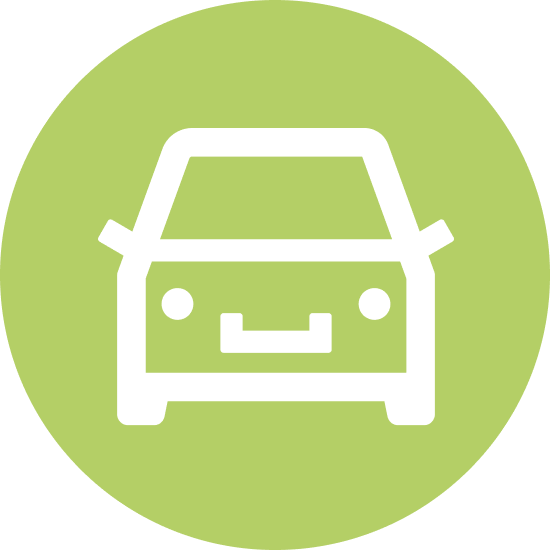
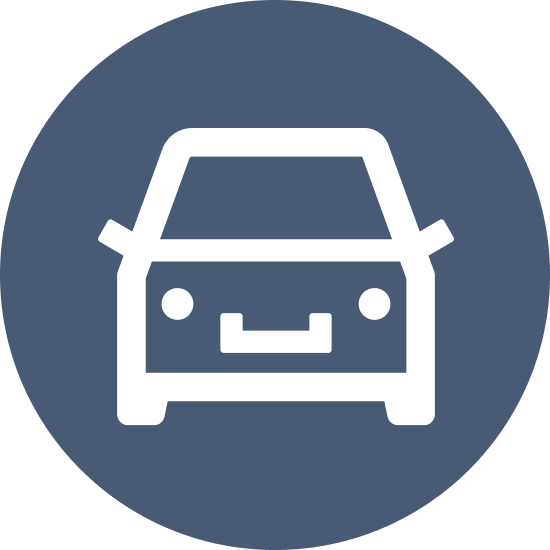
:art: [Style] 파란색으로 변경

diff --git a/FE/main-user/src/components/message/Message.css b/FE/main-user/src/components/message/Message.css
@@ -125,7 +125,7 @@
     margin-left: 0px;
     margin-right: 10px;
     max-height: 40px;
-    background-color: #44803f;
+    background-color: #5285b1;
     color: white;
     font-size: 20px;
     font-weight: bold;
@@ -182,7 +182,7 @@
 }
 
 .message-list::-webkit-scrollbar-thumb {
-    background-color: #54736D;
+    background-color: #3e5c76;
     border-radius: 10px;
 }
 
@@ -248,7 +248,7 @@
 .send-button {
     padding: 10px 15px;
     background: #FFEC5C;
-    color: #54736D;
+    color: #3e5c76;
     border: none;
     border-radius: 4px;
     cursor: none;
@@ -310,7 +310,7 @@
     border-radius: 4px;
     background-color: #FFEC5C;
     box-shadow: 0 1px 4px rgba(0, 0, 0, 0.4);
-    color: #54736D;
+    color: #3e5c76;
     cursor: none;
 }
 
@@ -346,7 +346,7 @@
     border-radius: 4px;
     background-color: #B1B1B1;
     box-shadow: 0 1px 4px rgba(0, 0, 0, 0.4);
-    color: #54736D;
+    color: #3e5c76;
     cursor: none;
 }
 
@@ -362,7 +362,7 @@
     margin-top: 20px;
     border: none;
     border-radius: 4px;
-    background-color: #44803F;
+    background-color: #5285b1;
     box-shadow: 0 1px 4px rgba(0, 0, 0, 0.4);
     color: #FFFFFF;
     cursor: none;
@@ -389,7 +389,7 @@
     font-weight: bold;
     height: 130px;
     color: white;
-    background-color: #4f814b;
+    background-color: #3e5c76;
     border: none;
     border-radius: 10px;
     text-align: center;
@@ -400,7 +400,7 @@
 }
 
 .user-button:hover {
-    background-color: #54736D;
+    background-color: #5285b1;
     transform: scale(1.05);
 }
 

diff --git a/FE/main-user/src/components/calendar/Calendar.css b/FE/main-user/src/components/calendar/Calendar.css
@@ -106,7 +106,7 @@
   
   .calendar-day:hover {
     border-radius: 10px;
-    background-color: rgba(68, 128, 63, 0.562);
+    background-color: rgba(82, 133, 177, 0.562);
   
     transition: all 0.3s ease;
   }
@@ -121,7 +121,7 @@
   
   .calendar-day.selected-date {
     color: white;
-    background-color: #44803F;
+    background-color: #3e5c76;
     border-radius: 12px;
   
     font-weight: bold;
@@ -130,7 +130,7 @@
   }
 
   .calendar-day.today {
-    background-color: #A0D468;
+    background-color: #5285b1;
     color: white;
     border-radius: 12px;
     font-weight: bold;
@@ -138,7 +138,7 @@
   }
 
   .calendar-day.selected-date.today {
-    background-color: #44803F; /* 선택된 날짜가 오늘이라면 진한 초록색 유지 */
+    background-color: #5285b1; /* 선택된 날짜가 오늘이라면 진한 초록색 유지 */
   }
   
   .calendar-day-schedules {
@@ -187,7 +187,7 @@
     margin: 0px;
     padding: 8px;
   
-    background-color: #44803F;
+    background-color: #3e5c76;
     border-radius: 10px;
   
     font-size: small;
@@ -235,14 +235,14 @@
   }
   
   .calendar-form input:focus {
-    outline: 1px #44803F solid;
+    outline: 1px #3e5c76 solid;
   }
   
   .calendar-form button {
     width: 10%;
     height: 50px;
   
-    background-color: #44803F;
+    background-color: #3e5c76;
   
     border: 0;
     border-radius: 0px 8px 8px 0px;

diff --git a/FE/main-user/src/components/home/Home.css b/FE/main-user/src/components/home/Home.css
@@ -29,8 +29,8 @@
   margin: 2rem;
   padding: 2rem;
   border-radius: 8px;
-  background: rgba(88, 118, 112, 0.5);
-  box-shadow: 0 0 20px rgba(0, 0, 0, 0.5);
+  background: rgba(62, 92, 118, 0.65);
+  box-shadow: 0 0 5px rgba(62, 92, 118, 0.5);
   cursor: none;
 }
 
@@ -85,7 +85,7 @@
 #info-title {
   font-size: 1.3rem;
   font-weight: bold;
-  color: #54736D;
+  color: #3e5c76;
 }
 
 
@@ -106,7 +106,7 @@
 #weather-title {
   font-size: 1.5rem;
   font-weight: bold;
-  color: #54736D;
+  color: #3e5c76;
   align-self: flex-start;
 }
 
@@ -128,13 +128,13 @@
   flex-direction: column;
   font-size: 1.1rem;
   font-weight: bold;
-  color: #54736D;
+  color: #3e5c76;
 }
 
 #schedule-title {
   font-size: 1.5rem;
   font-weight: bold;
-  color: #54736D;
+  color: #3e5c76;
   align-self: flex-start;
 }
 
@@ -176,7 +176,7 @@
   margin: 0px;
   padding: 15px;
 
-  background-color: #54736D;
+  background-color: #3e5c76;
   border-radius: 10px;
 
   font-size: 1.5rem;
@@ -221,7 +221,7 @@
 #environment-info #info-status {
   font-size: 1.1rem;
   font-weight: bold;
-  color: #54736D;
+  color: #3e5c76;
 }
 
 #dock {
@@ -332,7 +332,7 @@
 
 #dock #dock-icon:not(.active) {
   --rgb: none;
-  box-shadow: 0 3px 3px 3px rgba(255, 255, 255, 0.6);
+  box-shadow: 0 2.5px 2.5px 2.5px rgba(62, 92, 118, 0.2);
 }
 
 #dock #dock-icon.active:after {

diff --git a/FE/main-user/src/components/news/News.css b/FE/main-user/src/components/news/News.css
@@ -33,7 +33,7 @@
 }
 
 .news-category-button:hover {
-  background-color: #44803f;
+  background-color: #5285b1;
   color: white;
 }
 
@@ -50,7 +50,7 @@
   padding: 10px;
   padding-top: 5px;
   max-height: 40px;
-  background-color: #44803f;
+  background-color: #5285b1;
   color: white;
   font-size: 30px;
   font-weight: bold;
@@ -88,7 +88,7 @@
 }
 
 .news-list::-webkit-scrollbar-thumb {
-  background-color: #54736D;
+  background-color: #3e5c76;
   border-radius: 10px;
 }
 
@@ -177,7 +177,7 @@
   padding: 10px;
   padding-top: 5px;
   max-height: 40px;
-  background-color: #44803f;
+  background-color: #5285b1;
   color: white;
   border: none;
   border-radius: 5px;

diff --git a/FE/main-user/src/components/home/information/Environment.jsx b/FE/main-user/src/components/home/information/Environment.jsx
@@ -23,7 +23,7 @@ export default function Environment() {
     const dustIcon = dustStatus === "bad" ? AirwaveEm : Airwave;
 
     // 일산화탄소 상태 판단 (1.5 이상이면 나쁨)
-    const ethanolStatus = ethanolLevel > 0 && ethanolLevel < 1.5 ? "good" : "bad";
+    const ethanolStatus = ethanolLevel > 0 && ethanolLevel < 30 ? "good" : "bad";
     const ethanolIcon = environmentDataStore.environmentData.result.ethanol === null || environmentDataStore.environmentData.result.ethanol === undefined ? Gas : (ethanolStatus === "bad" ? GasEm : Gas);
 
     return (

diff --git a/FE/main-user/src/components/login/Login.css b/FE/main-user/src/components/login/Login.css
@@ -66,7 +66,7 @@
 
     margin-bottom: 0.2rem;
 
-    color: white;
+    color: #1d2d44;
     text-transform: uppercase;
     font-weight: bold;
     font-size: 1.2rem;
@@ -121,7 +121,7 @@
     border: 0;
     border-radius: 8px;
 
-    background-color: #44803f;
+    background-color: #3e5c76;
 
     color: white;
     font-size: 1.5rem;
@@ -146,7 +146,7 @@
     transform: translate(-50%, -50%);
     font-size: 1.7rem;
     margin: 5px;
-    color: white;
+    color: #1d2d44;
     text-align: center;
     transition: all 1.2s ease-in-out;
 }

diff --git a/FE/main-user/src/components/settings/Backgrounds.jsx b/FE/main-user/src/components/settings/Backgrounds.jsx
@@ -36,7 +36,7 @@ export default function Backgrounds() {
                     key={index}
                     className="background-item"
                     onClick={() => changeBackground(imageUrl)}
-                    style={{ border: selectedBackground === imageUrl ? "3px solid green" : "none" }}
+                    style={{ border: selectedBackground === imageUrl ? "3px solid navy" : "none" }}
                 >
                     <img src={imageUrl} alt="배경" />
                 </div>

diff --git a/FE/main-user/src/store/environmentData.jsx b/FE/main-user/src/store/environmentData.jsx
@@ -80,7 +80,7 @@ export default function EnvironmentDataContextProvider({ children }) {
                     setEnvironmentData(newData);
 
                     // 🔥 에탄올 수치 확인 후 긴급 모달 열기
-                    if (parseFloat(newData.result.ethanol) > 1.5) {
+                    if (parseFloat(newData.result.ethanol) > 30) {
                         store.handleEmergencyState();
                     }
                 }

diff --git a/FE/main-user/src/components/notice/Notice.css b/FE/main-user/src/components/notice/Notice.css
@@ -168,7 +168,7 @@
 }
 
 .notice-scroll::-webkit-scrollbar-thumb {
-  background-color: #54736D;
+  background-color: #3e5c76;
   border-radius: 10px;
 }
 
@@ -183,7 +183,7 @@
   bottom: 20px;
   left: 50%;
   transform: translateX(-50%);
-  background: #44803F;
+  background: #3e5c76;
   color: white;
   border: none;
   padding: 8px 20px;
@@ -192,5 +192,5 @@
 }
 
 .reply-button:hover {
-  background: #54736D;
+  background: #5285b1;
 }

diff --git a/FE/main-user/src/components/settings/Settings.css b/FE/main-user/src/components/settings/Settings.css
@@ -19,7 +19,7 @@
     display: flex;
     justify-content: center;
     align-items: center;
-    background-color: #4f814b;
+    background-color: #5285b1;
     transition: 0.2s transform, 0.3s box-shadow;
     will-change: transform, box-shadow;
 }

diff --git a/FE/main-user/src/components/nav/Navbar.css b/FE/main-user/src/components/nav/Navbar.css
@@ -1,6 +1,6 @@
 #nav-bar {
-  background: #587670;
-  box-shadow: 0 0 20px rgba(0, 0, 0, 0.5);
+  background: #1d2d44;
+  box-shadow: 0 0 10px rgba(0, 0, 0, 0.5);
   width: 10%;
   display: flex; 
   flex-direction: column;

diff --git a/FE/main-user/src/components/modal/Modal.css b/FE/main-user/src/components/modal/Modal.css
@@ -184,8 +184,8 @@
 }
 
 #setting-box #box {
-  background-color: #90b58c;
-  color: #0B382F;
+  background-color: #93b1cc;
+  color: #0d1321;
   border: none;
   border-radius: 8px;
   padding: 10px;
